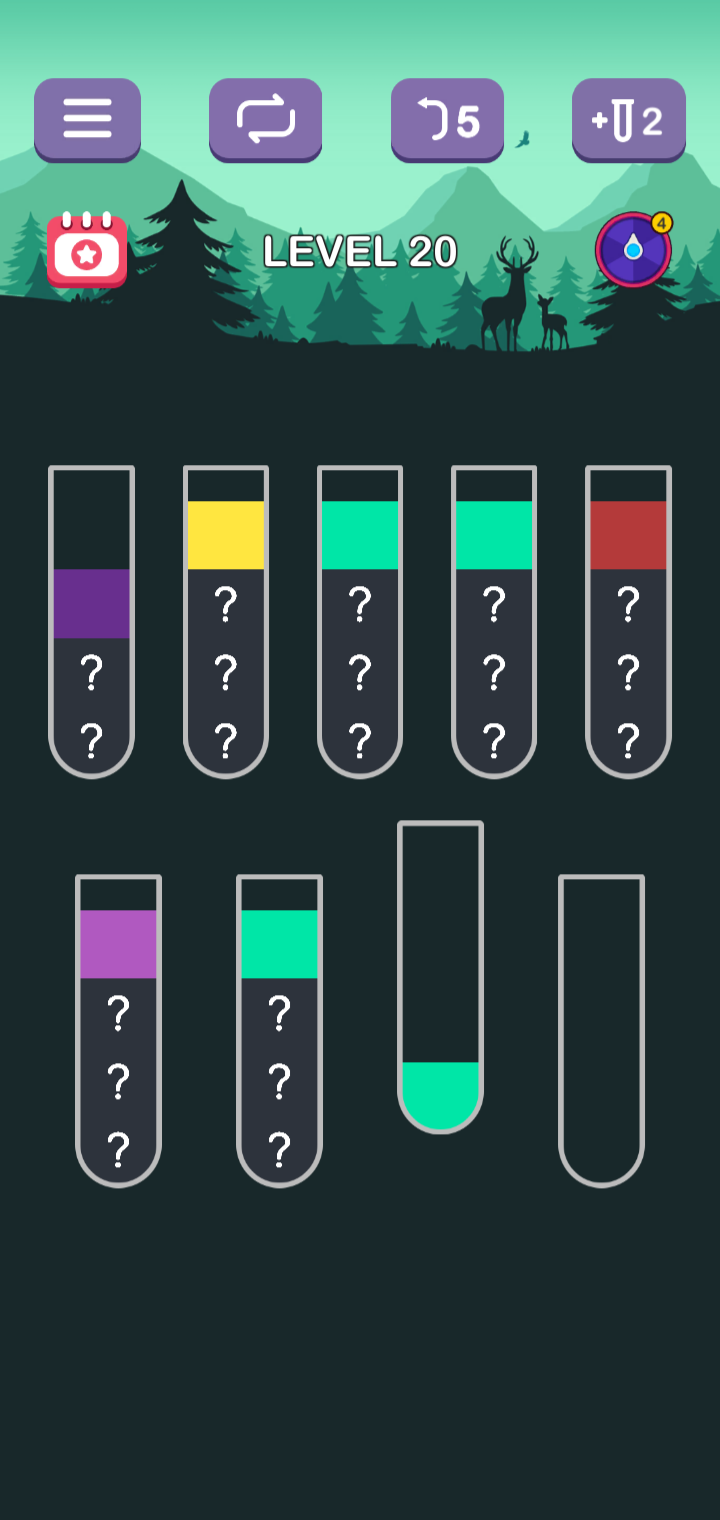
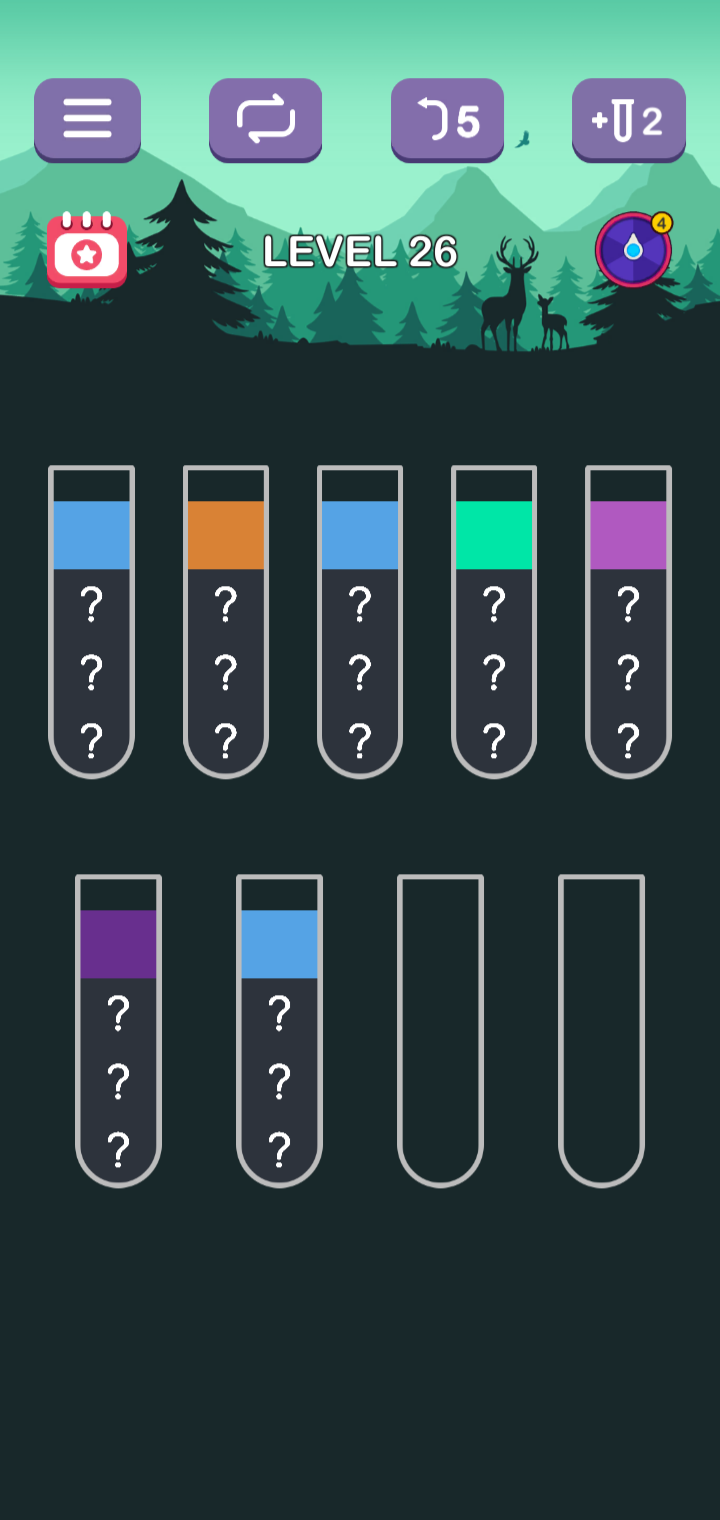
fixed a bug that detected grey blocks as unknown blocks

diff --git a/solver.py b/solver.py
@@ -10,7 +10,6 @@ Strategies:
 Moves are returned as (src, dst, num_poured).
 """
 
-import random
 from collections import deque
 from heapq import heappush, heappop
 
@@ -220,185 +219,85 @@ def solve_dfs(initial_state, tube_capacity=4, max_states=2_000_000,
     return None
 
 
-# ── Constraint deduction ─────────────────────────────────────────────
-
-def deduce_unknowns(state, tube_capacity=4):
-    """
-    Fill in forced unknowns using colour counting.
-
-    Each colour appears exactly tube_capacity times. If a colour has been
-    seen tube_capacity - 1 times, the one remaining UNKNOWN slot must be
-    that colour. Repeats until no more deductions can be made (one fill-in
-    can enable the next).
-
-    Returns a new state (list of lists) and the number of slots deduced.
-    """
-    tubes = [list(t) for t in state]
-    total_deduced = 0
-
-    while True:
-        # Count visible colours across all tubes
-        colour_counts = {}
-        for tube in tubes:
-            for slot in tube:
-                if slot != UNKNOWN:
-                    colour_counts[slot] = colour_counts.get(slot, 0) + 1
-
-        # Find colours that are one short of full count
-        missing_one = [
-            colour for colour, count in colour_counts.items()
-            if count == tube_capacity - 1
-        ]
-
-        if not missing_one:
-            break
-
-        # Count total unknowns to detect single-unknown-remaining case
-        total_unknowns = sum(t.count(UNKNOWN) for t in tubes)
-
-        deduced_this_round = 0
-        for colour in missing_one:
-            # If only one unknown slot remains anywhere, it must be this colour
-            if total_unknowns == 1:
-                for tube in tubes:
-                    if UNKNOWN in tube:
-                        idx = tube.index(UNKNOWN)
-                        tube[idx] = colour
-                        deduced_this_round += 1
-                        total_unknowns -= 1
-                        break
-            else:
-                # Multiple unknowns remain — can we narrow down which one?
-                # A tube with no unknowns can't hold the missing slot.
-                # If exactly one tube has unknowns AND could contain this
-                # colour, the missing instance must be there.
-                candidate_tubes = []
-                for i, tube in enumerate(tubes):
-                    if UNKNOWN in tube:
-                        candidate_tubes.append(i)
-
-                if len(candidate_tubes) == 1:
-                    # Only one tube has any unknowns — all missing colours
-                    # must be in that tube. Fill the topmost unknown.
-                    tube = tubes[candidate_tubes[0]]
-                    idx = tube.index(UNKNOWN)
-                    tube[idx] = colour
-                    deduced_this_round += 1
-                    total_unknowns -= 1
-
-        if deduced_this_round == 0:
-            break
-        total_deduced += deduced_this_round
-
-    if total_deduced > 0:
-        print(f"  🧩 Deduced {total_deduced} hidden slot(s) via colour counting")
-
-    return tubes, total_deduced
-
-
 # ── Safe moves (when unknowns prevent full solve) ────────────────────
 
 def find_safe_moves(initial_state, tube_capacity=4):
     """
-    Reveal-focused strategy. Called each round while unknowns remain.
+    When the puzzle can't be fully solved (hidden slots), find moves
+    that make obvious progress:
+      1. Complete a tube (fill it with one colour)
+      2. Pour onto matching colour
+      3. Pour to reveal a hidden slot (empty a tube above unknowns)
 
-    Priority order:
-      1. Matching reveal — pour from a tube with hidden slots below into
-         a tube whose top matches the source colour. Free information
-         without spending an empty tube.
-      2. Empty reveal — pour from a tube with hidden slots below into an
-         empty tube. Safe (always reversible) but spends an empty.
-      3. Matching consolidation — pour matching colours together even if
-         neither tube has hidden slots. Frees up space for future reveals.
-      4. Non-reveal empty park — pour into an empty to create room,
-         only as a last resort.
-
-    Only one move per call — the loop in solve_one_level will re-screenshot
-    and re-assess after each move, so we don't need to chain moves blindly.
-
-    Returns a list of (src, dst, num_poured) moves (0 or 1 move).
+    Returns a short list of (src, dst, num_poured) moves.
     """
-    state = [list(t) for t in initial_state]
+    state = tuple(tuple(t) for t in initial_state)
+    safe_moves = []
 
-    def has_hidden_below(tube):
-        """Check if pouring the visible top would reveal an UNKNOWN."""
-        if not tube:
-            return False
-        top_colour = tube[-1]
-        if top_colour == UNKNOWN:
-            return False
-        # Walk down past the top run to see if UNKNOWN is directly below
-        for i in range(len(tube) - 1, -1, -1):
-            if tube[i] == top_colour:
-                continue
-            return tube[i] == UNKNOWN
-        return False
-
-    def do_pour(src, dst):
-        """Execute a pour and return (num_poured, move_tuple)."""
-        frozen = tuple(tuple(t) for t in state)
-        new_frozen, num_poured = apply_move(frozen, src, dst, tube_capacity)
-        if num_poured > 0:
-            return num_poured, (src, dst, num_poured)
-        return 0, None
-
-    # Categorise tubes
-    empty_tubes = [i for i, t in enumerate(state) if len(t) == 0]
-
-    # Build candidate moves in priority order
-    # Each candidate: (priority, src, dst)
-    candidates = []
-
-    for src in range(len(state)):
-        if not state[src]:
-            continue
-        top_colour, top_count = get_top_run(state[src])
-        if top_colour == UNKNOWN:
+    # Score each possible move — use permissive generator so single-colour
+    # tubes can pour into empty slots (may be the only way to make progress
+    # when unknowns are blocking everything else)
+    scored = []
+    for src, dst in valid_moves(state, tube_capacity, restrict_empties=False):
+        new_state, num_poured = apply_move(state, src, dst, tube_capacity)
+        if num_poured == 0:
             continue
 
-        reveals = has_hidden_below(state[src])
+        score = 0
+        src_tube_after = new_state[src]
+        dst_tube_after = new_state[dst]
 
-        for dst in range(len(state)):
-            if dst == src:
-                continue
-            if len(state[dst]) >= tube_capacity:
-                continue
+        # Completing a tube = great
+        if (len(dst_tube_after) == tube_capacity
+                and len(set(dst_tube_after)) == 1
+                and UNKNOWN not in dst_tube_after):
+            score += 100
 
-            if len(state[dst]) == 0:
-                # Pouring a fully-visible single-colour tube into empty
-                # is pointless — skip it
-                known = [c for c in state[src] if c != UNKNOWN]
-                if len(set(known)) <= 1 and UNKNOWN not in state[src]:
-                    continue
+        # Emptying a tube = great (especially reveals unknowns)
+        if len(src_tube_after) == 0:
+            score += 80
 
-                if reveals:
-                    # Priority 2: empty reveal
-                    candidates.append((2, src, dst))
-                else:
-                    # Priority 4: non-reveal empty park
-                    candidates.append((4, src, dst))
+        # Revealing an unknown (top of source becomes unknown after pour)
+        if src_tube_after and src_tube_after[-1] == UNKNOWN:
+            score += 60
 
-            elif state[dst][-1] == top_colour:
-                if reveals:
-                    # Priority 1: matching reveal (best move)
-                    candidates.append((1, src, dst))
-                else:
-                    # Priority 3: matching consolidation
-                    candidates.append((3, src, dst))
+        # Pouring onto matching colour = good
+        if state[dst] and state[dst][-1] == state[src][-1]:
+            score += 30
 
-    # Sort by priority and pick the best one
-    candidates.sort(key=lambda c: c[0])
+        # Pouring more balls at once = efficient
+        score += num_poured * 5
 
-    for priority, src, dst in candidates:
-        num_poured, move = do_pour(src, dst)
-        if num_poured > 0:
-            kind = {1: "matching reveal", 2: "empty reveal",
-                    3: "consolidation", 4: "empty park"}
-            print(f"  Strategy: {kind.get(priority, '?')} "
-                  f"(Tube {src+1} → Tube {dst+1})")
-            return [move]
+        if score > 0:
+            scored.append((score, src, dst, num_poured))
 
-    return []
+    scored.sort(reverse=True)
+
+    # Fallback: when all tops are UNKNOWN, pour into empty tubes to reveal hidden balls.
+    # The real game always allows any tube → empty tube regardless of the top colour.
+    if not scored:
+        empty_dsts = [i for i, t in enumerate(state) if len(t) == 0]
+        for src, tube in enumerate(state):
+            if not tube or not empty_dsts:
+                break
+            top, _ = get_top_run(tube)
+            if top == UNKNOWN:
+                dst = empty_dsts.pop(0)
+                scored.append((10, src, dst, 1))
+
+    # Take the best moves but avoid conflicts
+    used_srcs = set()
+    for score, src, dst, num_poured in scored:
+        if src in used_srcs:
+            continue
+        safe_moves.append((src, dst, num_poured))
+        used_srcs.add(src)
+
+        # Limit to a few moves — we'll re-screenshot after
+        if len(safe_moves) >= 3:
+            break
+
+    return safe_moves
 
 
 # ── Auto-selecting solver ────────────────────────────────────────────

diff --git a/screen_reader.py b/screen_reader.py
@@ -26,7 +26,7 @@ EMPTY_THRESHOLD = 15
 # Hidden slots are darker/greyer than game colours but different from empty
 HIDDEN_COLOUR_RANGE = {
     "min": (40, 40, 40),    # darker than this = empty
-    "max": (130, 130, 130), # lighter than this = actual colour
+    "max": (100, 100, 100), # lighter than this = actual colour
 }
 
 UNKNOWN = "unknown"